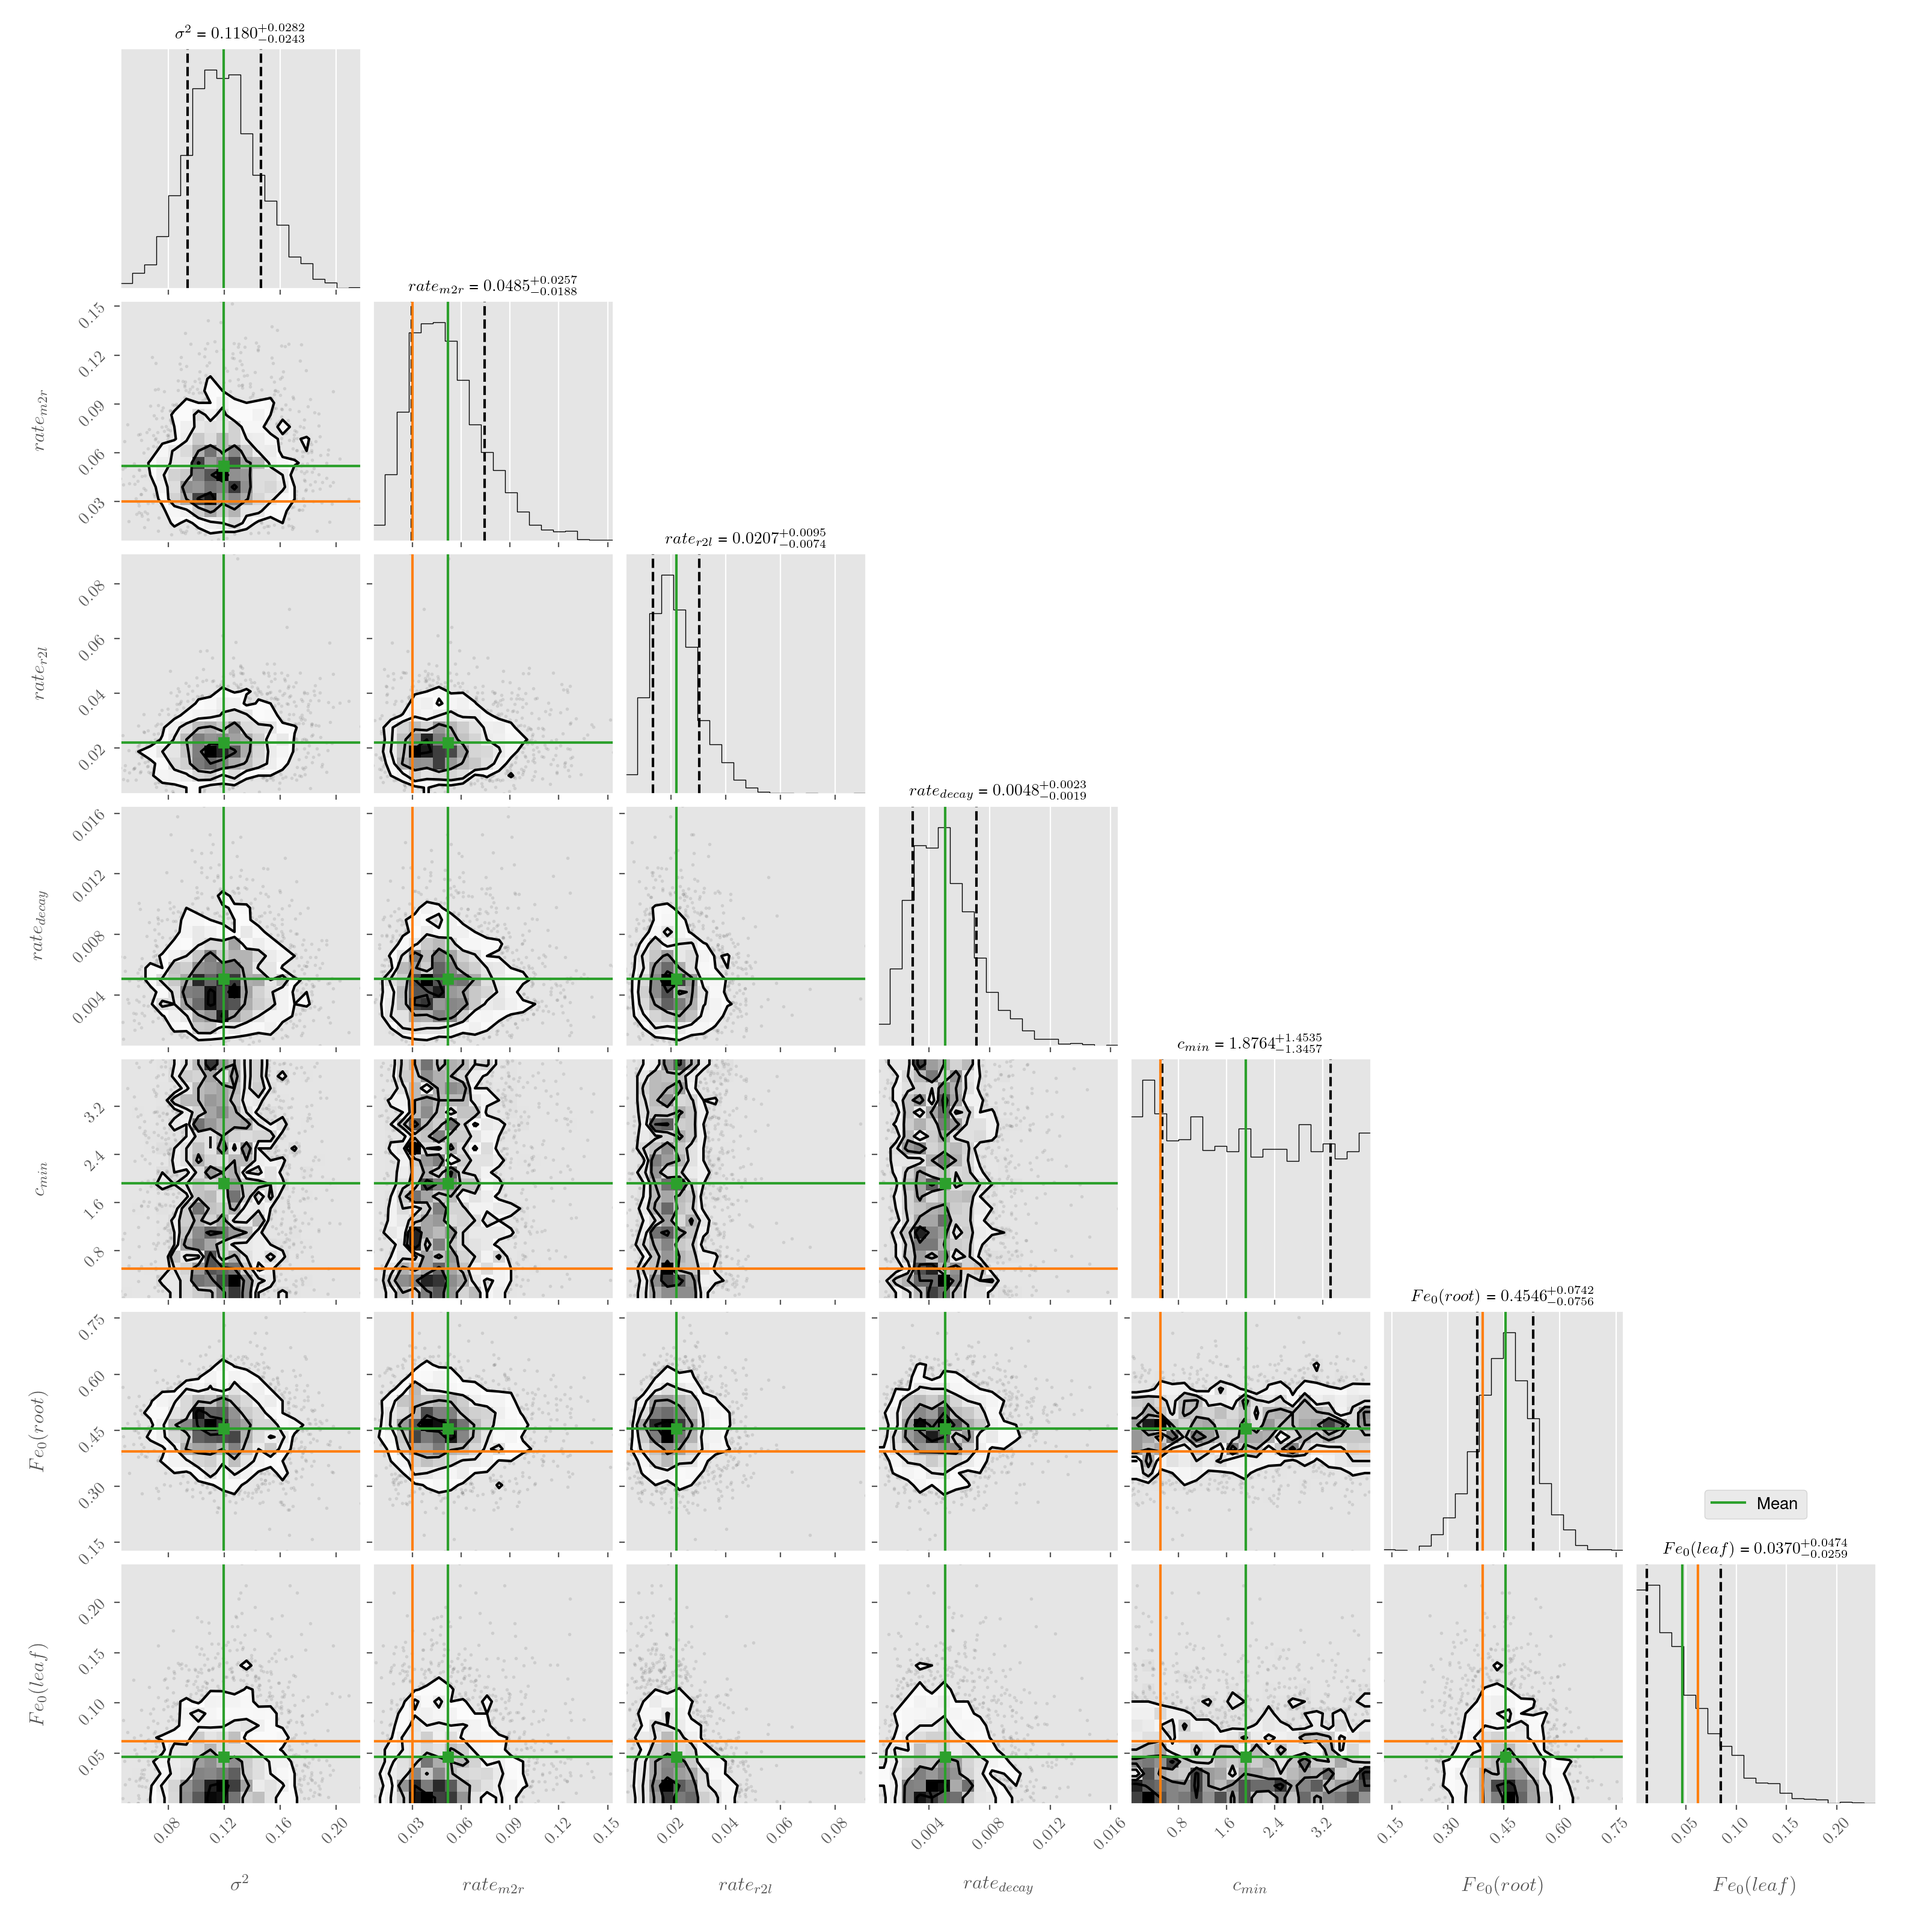
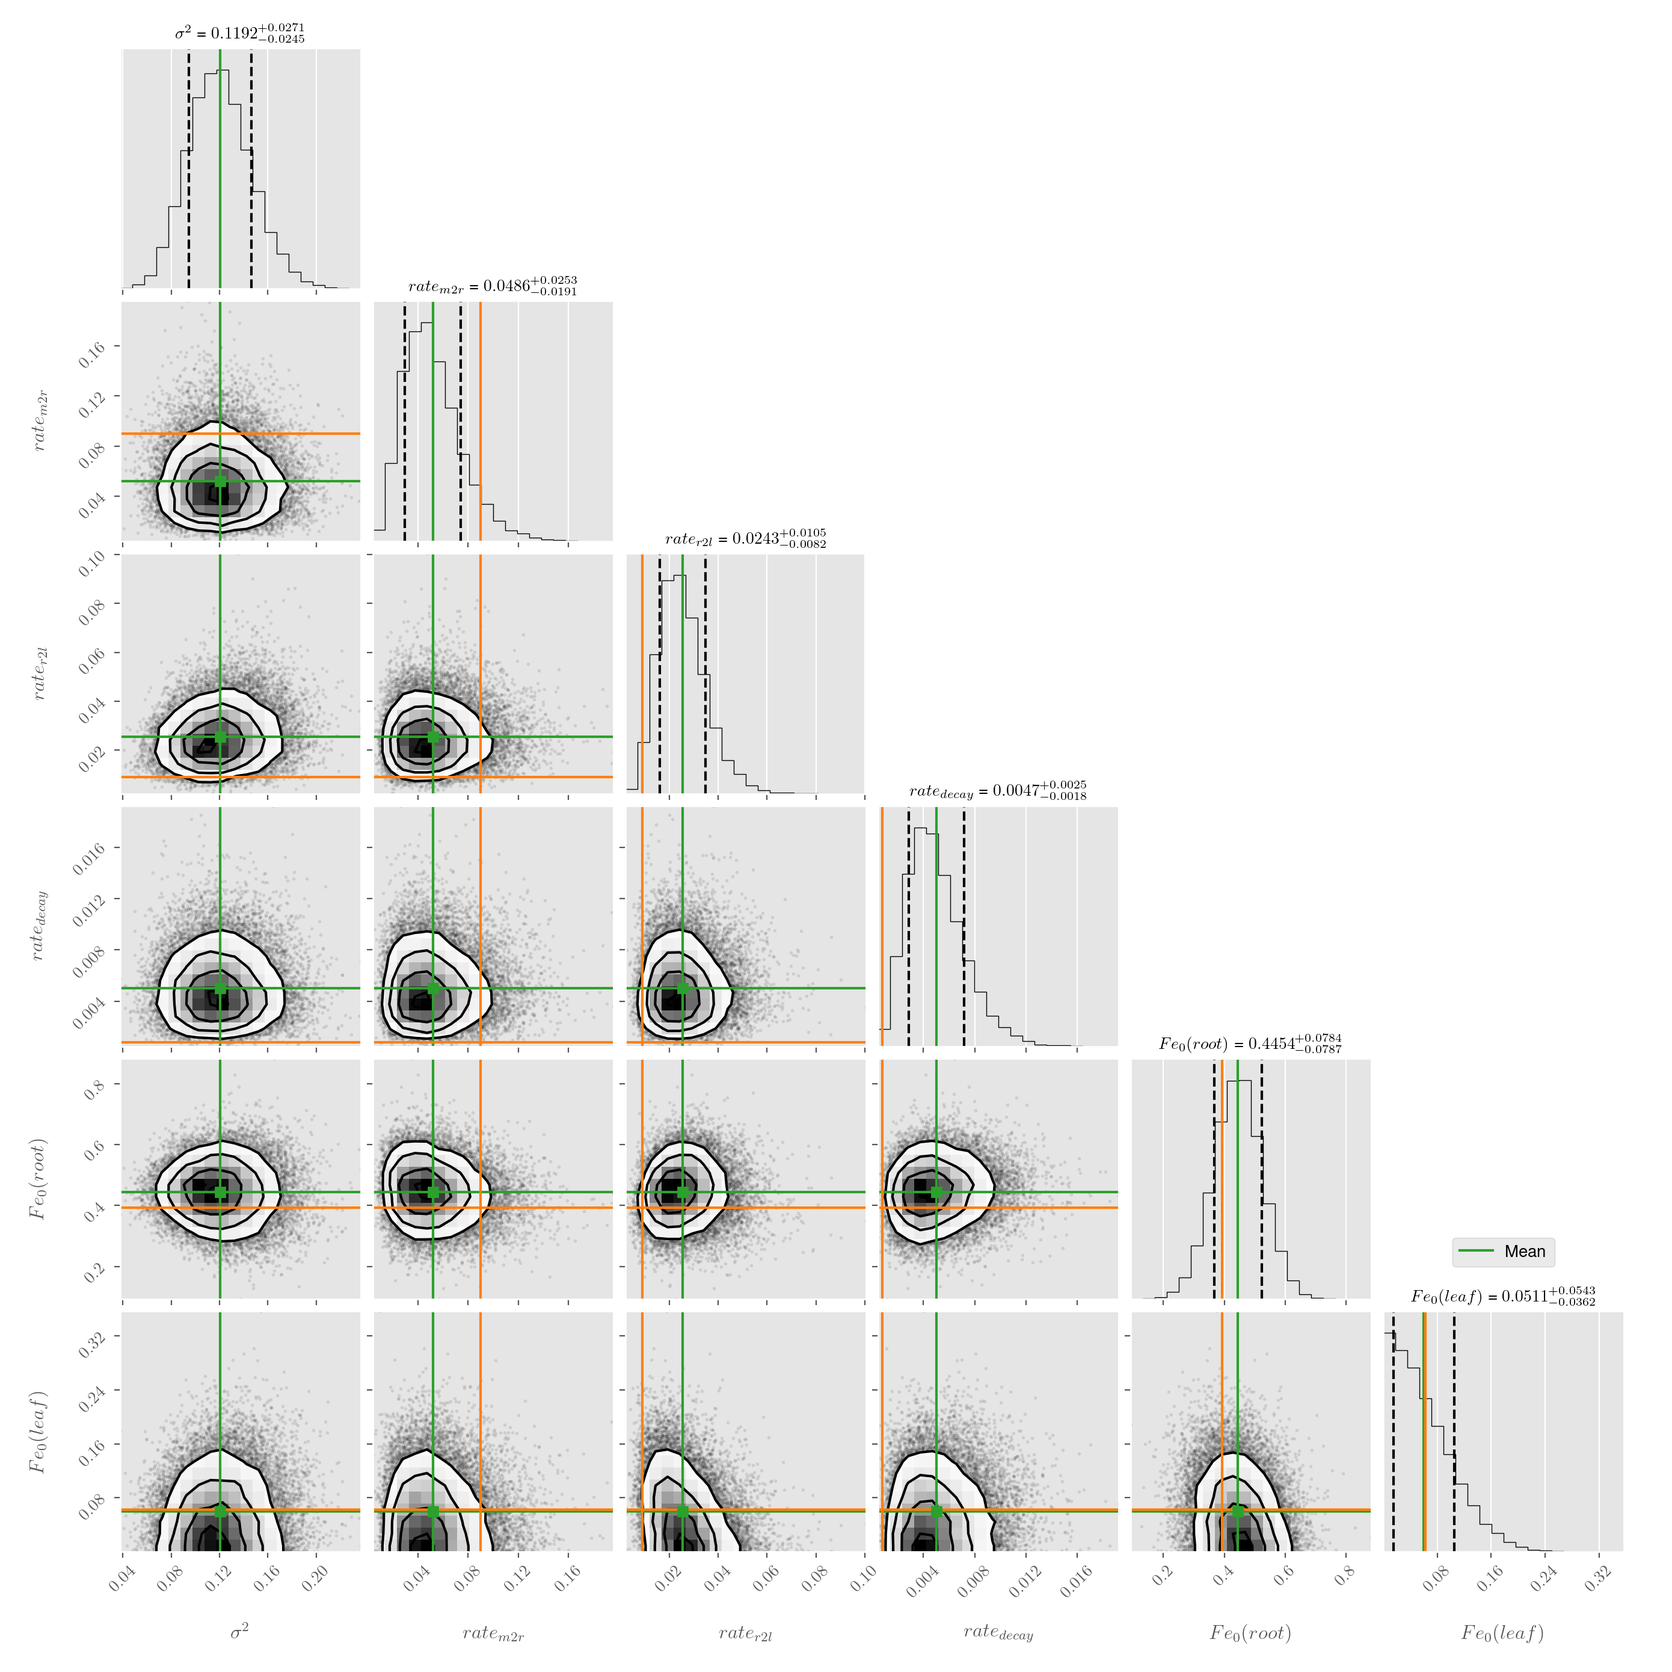
Results with estimation of decay rate
Decay rate is considered to be unknown. This must change as it is the same rate as the rate of increase in dry weight.

Changed region(s): [[0.0309, 0.0, 0.9899, 0.9899]]

diff --git a/test_MCMC.py b/test_MCMC.py
@@ -17,9 +17,9 @@ def log_posterior(theta, times):
 
 def log_prior(theta):
     # no matrix weight
-    sigma2, r_mr, r_rl, r_d, c_min, *iron_0 = theta
+    sigma2, r_mr, r_rl, r_d, *iron_0 = theta
     # everything that is defined in the conditions after the first one corresponds to uniform priors
-    if all(c >= 0 for c in theta) and (c_min < 4):
+    if all(c >= 0 for c in theta):
         a_r1, b_r1 = 5, .01
         a_r2, b_r2 = 5, .001
         a_r3, b_r3 = 5, .01
@@ -40,7 +40,7 @@ def log_likelihood(theta, times):
     sigma2, *model_params = theta
     Sigma = sigma2 * np.identity(2)
     *ode_params, iron_r, iron_l = model_params
-    model_output = odeint(ode_iron_leaf_root, [iron_r, iron_l], times, args=(ode_params,), rtol=0.000001,atol=0.000001)
+    model_output = odeint(ode_iron_no_c_min, [iron_r, iron_l], times, args=(ode_params,), rtol=0.000001,atol=0.000001)
     # compute likelihood for all replicates
     logl_all = 0
     for _, Rep in enumerate(Replicates):
@@ -61,10 +61,27 @@ def ode_iron_leaf_root(x, t, params):
     # the updated states are passed as x
     fe_root, fe_leaf = x
     # get the values of dry weight and matrix concentration from the approximating functions
-    dr_w = dry_weight(t)
+    dr_w = dry_weight_root(t)
     fe_in_m = matrix_content(t)
     # matrix_weight = 10 #matrix weight in gramms to bring everything to the same measurement units
     dxdt = [(r_mr*dr_w*fe_in_m)/(c_min + fe_in_m) - r_rl * fe_root - r_d * fe_root, \
+            r_rl * fe_root - r_d * fe_leaf]
+    return dxdt
+
+def ode_iron_no_c_min(x, t, params):
+    # the models takes as an input:
+    # rate of uptake from matrix to roots, r_mr
+    # rate of uptake from roots to leaves, r_rl
+    # rate of decay, r_d
+    # carrying capacity of the root matrix scaled by the matrix weight, c_max
+    r_mr, r_rl, r_d = params
+    # the updated states are passed as x
+    fe_root, fe_leaf = x
+    # get the values of dry weight and matrix concentration from the approximating functions
+    dr_w = dry_weight_root(t)
+    fe_in_m = matrix_content(t)
+    # matrix_weight = 10 #matrix weight in gramms to bring everything to the same measurement units
+    dxdt = [r_mr*dr_w*fe_in_m - r_rl * fe_root - r_d * fe_root, \
             r_rl * fe_root - r_d * fe_leaf]
     return dxdt
 
@@ -94,7 +111,8 @@ if __name__ == '__main__':
     # dry weight and cobtent in perlite are averaged across replicates
     # can also try running the model for each dw series as an alternative
     df_matrix = df_matrix.groupby(['Day']).mean()
-    df_dw = df_dw.loc[(df_fe['Part'] == 'R'),:].groupby(['Day']).mean()
+    df_dw_r = df_dw.loc[(df_fe['Part'] == 'R'), :].groupby(['Day']).mean()
+    df_dw_l = df_dw.loc[(df_fe['Part'] == 'L'), :].groupby(['Day']).mean()
     ###################################################################################################################
     # Analysis 1: fit the model to each experiment individually, compare posteriors among the models
      # create measurement vectors and input vectors to be used in the model
@@ -110,13 +128,17 @@ if __name__ == '__main__':
         iron_0_true.append(init_val_kg / 1000)
         # create measurments of fe in plant parts for all replicates
     # create an interpolator for the dry weight and iron content in the matrix
-    dry_weight = sp.interpolate.interp1d(SamplingIndeces, df_dw.iloc[:,iExperiment].values, fill_value='extrapolate')
+    dry_weight_root = sp.interpolate.interp1d(SamplingIndeces, df_dw_r.iloc[:,iExperiment].values, fill_value='extrapolate')
+    dry_weight_leaf = sp.interpolate.interp1d(SamplingIndeces, df_dw_r.iloc[:, iExperiment].values,
+                                              fill_value='extrapolate')
+    dry_weight_leaf_rapid = dry_weight_leaf(times)
+    rate_change_leaf = sp
     matrix_content = sp.interpolate.interp1d(SamplingIndeces, df_matrix.iloc[:,iExperiment].values,  fill_value='extrapolate')
-    true_params = [0.01, 0.009, 0.0008, 1.5]
-    sig2_true = 0.00001
+    true_params = [0.09, 0.009, 0.0008]
+    sig2_true = 0.001
     # r_mr, r_rl, r_d, c_max, matrix_weight
     # make sure to run the model with the same time step - rates will depend on that
-    y_test = odeint(ode_iron_leaf_root, iron_0_true, times, args=(true_params,),rtol=0.000001,atol=0.000001)
+    y_test = odeint(ode_iron_no_c_min, iron_0_true, times, args=(true_params,),rtol=0.000001,atol=0.000001)
     for _, Rep in enumerate(Replicates):
         # create a measurement matrix
         y_noisy = y_test[SamplingIndeces,:] + np.random.multivariate_normal(mean=[0,0], cov=[[sig2_true, 0],[0, sig2_true]], size=len(SamplingDays))
@@ -137,8 +159,8 @@ if __name__ == '__main__':
     # run EMCMC for sets of walkers sampled around these values
     # test the model: sigma2 + 3 rates + carrying capacity + initial conditions
     sig2 = .01
-    params_0 = [sig2] + [.002, .002, .0001, 0.5] + iron_0_true
-    sigma_vector = np.array([0.001, 0.00001, 0.00001, 0.000001, .01, .01, 0.001])
+    params_0 = [sig2] + [.002, .002, .0001] + iron_0_true
+    sigma_vector = np.array([0.001, 0.00001, 0.00001, 0.000001, .01, 0.001])
     covar = np.identity(len(params_0)) * sigma_vector # create the matrix with diagonal elements defined by sigma_vector
     ndim = len(params_0)
     nwalkers = ndim * 2
@@ -148,7 +170,7 @@ if __name__ == '__main__':
     backend = emcee.backends.HDFBackend(fileName)
     backend.reset(nwalkers, ndim)
     # Prepare placeholders for checking autocorrelation time
-    max_iter = 20000
+    max_iter = 100000
     index_tau = 0
     autocorr = np.empty(max_iter)
     old_tau = np.inf
@@ -175,7 +197,7 @@ if __name__ == '__main__':
     # plot outcome
     # fileName = "../IronMCMCwalkers/MCMC_test.h5"
     # sampler = emcee.backends.HDFBackend(fileName)
-    labels = ["$\sigma^2$", "$rate_{m2r}$", "$rate_{r2l}$", "$rate_{decay}$", "$c_{min}$","$Fe_{0}(root)$","$Fe_{0}(leaf)$"]
+    labels = ["$\sigma^2$", "$rate_{m2r}$", "$rate_{r2l}$", "$rate_{decay}$","$Fe_{0}(root)$","$Fe_{0}(leaf)$"]
     samples = sampler.get_chain()
     # plot the walkers paths
     fig, axes = plt.subplots(len(labels), figsize=(10, 7), sharex=True)
@@ -218,10 +240,10 @@ if __name__ == '__main__':
     # plot model output and compare to experimental values:
     fig, axes = plt.subplots(len(Parts), figsize=(10, 7), sharex=True)
     inds = np.random.randint(len(flat_samples), size=100)
-    y_mean = odeint(ode_iron_leaf_root, mean_empirical[-2:], times, args=(mean_empirical[1:-2],))
+    y_mean = odeint(ode_iron_no_c_min, mean_empirical[-2:], times, args=(mean_empirical[1:-2],))
     for ind in inds:
         sample = flat_samples[ind]
-        y_mcmc = odeint(ode_iron_leaf_root, sample[-2:], times, args=(sample[1:-2],))
+        y_mcmc = odeint(ode_iron_no_c_min, sample[-2:], times, args=(sample[1:-2],))
         for iPart in range(len(Parts)):
             axes.flatten()[iPart].plot(times, y_mcmc[:, iPart], color='#1f77b4', alpha=0.1)
     for iPart in range(len(Parts)):

diff --git a/read_MCMC_results.py b/read_MCMC_results.py
@@ -27,6 +27,23 @@ def ode_iron_leaf_root(x, t, params):
             r_rl * fe_root - r_d * fe_leaf]
     return dxdt
 
+def ode_iron_leaf_root(x, t, params):
+    # the models takes as an input:
+    # rate of uptake from matrix to roots, r_mr
+    # rate of uptake from roots to leaves, r_rl
+    # rate of decay, r_d
+    # carrying capacity of the root matrix scaled by the matrix weight, c_max
+    r_mr, r_rl, r_d, c_min = params
+    # the updated states are passed as x
+    fe_root, fe_leaf = x
+    # get the values of dry weight and matrix concentration from the approximating functions
+    dr_w = dry_weight(t)
+    fe_in_m = matrix_content(t)
+    # matrix_weight = 10 #matrix weight in gramms to bring everything to the same measurement units
+    dxdt = [(r_mr*dr_w*fe_in_m)/(c_min + fe_in_m) - r_rl * fe_root - r_d * fe_root, \
+            r_rl * fe_root - r_d * fe_leaf]
+    return dxdt
+
 # Main
 if __name__ == '__main__':
     # enter for how many experiments to run EMCMC
